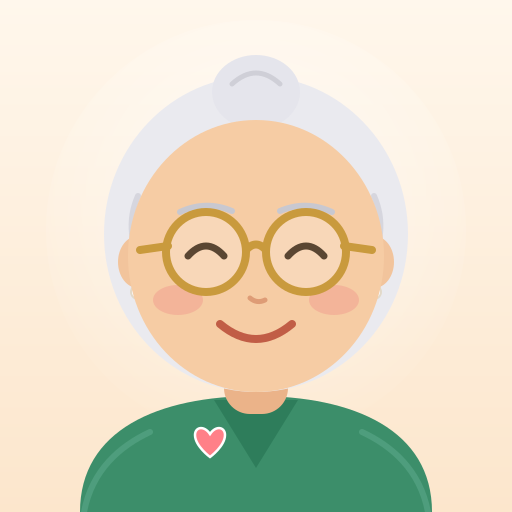
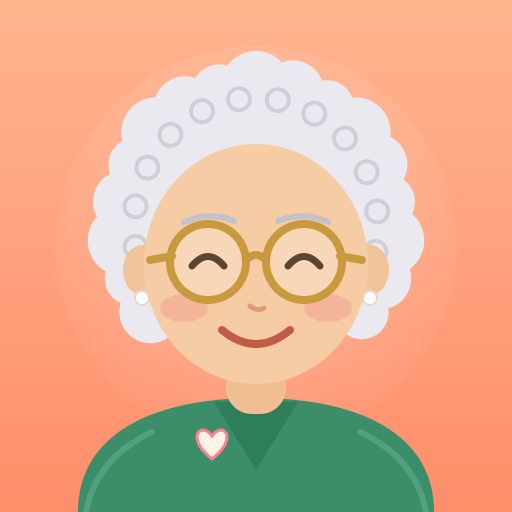
feat(care): 아이콘 코랄 배경 + 은발 뽀글이 펌으로 개선
- 배경 흰크림 → 따뜻한 코랄 그라데이션 (홈화면에서 잘 보이게)
- 매끈한 쪽머리 → 동글동글 펌 컬 (한국 할머니 느낌)
- scripts/build-care-icon.js: 컬 좌표 계산 + SVG/PNG 자동 생성
- salon/sw.js 캐시 bump (phone-gate 최신 반영)

diff --git a/scripts/build-care-icon.js b/scripts/build-care-icon.js
@@ -1,0 +1,121 @@
+// 안심케어 아이콘 빌드: 코랄 배경 + 은발 뽀글이 펌 할머니 → SVG + 192/512 PNG
+const sharp = require('sharp');
+const fs = require('fs');
+const path = require('path');
+
+const C = {
+  bgTop: '#FFB48E', bgBot: '#FF8E6B',          // 따뜻한 코랄(테일 배경에서 확 보임)
+  halo: '#FFFFFF',
+  hair: '#E9E9EF', hairSh: '#D3D3DC', curl: '#CFCFD9',
+  skin: '#F6CCA4', skinSh: '#F0BE92', ear: '#F2C49C',
+  cardi: '#3C8E6A', cardiV: '#2E7D5B', cardiEdge: '#5BA888',
+  gold: '#C99A3D', eye: '#5A4632', brow: '#C2C2CC',
+  blush: '#F0978B', mouth: '#C15D46',
+  pearl: '#FCFCFE', heart: '#FFF2E6', heartLine: '#FF8088',
+};
+
+const rad = d => d * Math.PI / 180;
+
+// ── 펌 컬: 머리 윗부분 테두리를 따라 동글동글한 원들 ──
+const hairCx = 256, hairCy = 226, hairRx = 134, hairRy = 140;
+let curls = '';
+let texture = '';
+// 바깥 테두리 컬 (-38° ~ 218°, 90°=정수리)
+for (let i = 0; i <= 16; i++) {
+  const a = -38 + (256 / 16) * i;       // -38 → 218
+  const x = hairCx + hairRx * Math.cos(rad(a));
+  const y = hairCy - hairRy * Math.sin(rad(a));
+  const r = 27 + (i % 3) * 4;
+  curls += `<circle cx="${x.toFixed(1)}" cy="${y.toFixed(1)}" r="${r}" fill="${C.hair}"/>`;
+}
+// 안쪽 한 겹 더 (볼륨)
+for (let i = 0; i <= 13; i++) {
+  const a = -20 + (220 / 13) * i;
+  const x = hairCx + (hairRx - 30) * Math.cos(rad(a));
+  const y = hairCy - (hairRy - 30) * Math.sin(rad(a));
+  curls += `<circle cx="${x.toFixed(1)}" cy="${y.toFixed(1)}" r="22" fill="${C.hair}"/>`;
+}
+// 컬 질감(살짝 어두운 작은 c자)
+for (let i = 0; i <= 14; i++) {
+  const a = -30 + (256 / 14) * i;
+  const x = hairCx + (hairRx - 12) * Math.cos(rad(a));
+  const y = hairCy - (hairRy - 12) * Math.sin(rad(a));
+  texture += `<circle cx="${x.toFixed(1)}" cy="${y.toFixed(1)}" r="11" fill="none" stroke="${C.curl}" stroke-width="4"/>`;
+}
+
+const svg = `<svg width="512" height="512" viewBox="0 0 512 512" xmlns="http://www.w3.org/2000/svg">
+  <defs>
+    <linearGradient id="bg" x1="0" y1="0" x2="0" y2="1">
+      <stop offset="0" stop-color="${C.bgTop}"/><stop offset="1" stop-color="${C.bgBot}"/>
+    </linearGradient>
+    <radialGradient id="halo" cx="0.5" cy="0.45" r="0.6">
+      <stop offset="0" stop-color="${C.halo}" stop-opacity="0.30"/>
+      <stop offset="1" stop-color="${C.halo}" stop-opacity="0"/>
+    </radialGradient>
+  </defs>
+
+  <rect width="512" height="512" fill="url(#bg)"/>
+  <circle cx="256" cy="246" r="200" fill="url(#halo)"/>
+
+  <!-- cardigan -->
+  <path d="M78 512 C78 432 156 398 256 398 C356 398 434 432 434 512 Z" fill="${C.cardi}"/>
+  <path d="M214 402 L256 470 L298 402 Z" fill="${C.cardiV}"/>
+  <path d="M86 512 C94 470 122 446 152 432" fill="none" stroke="${C.cardiEdge}" stroke-width="6" stroke-linecap="round" opacity="0.7"/>
+  <path d="M426 512 C418 470 390 446 360 432" fill="none" stroke="${C.cardiEdge}" stroke-width="6" stroke-linecap="round" opacity="0.7"/>
+
+  <!-- neck -->
+  <rect x="226" y="356" width="60" height="58" rx="26" fill="${C.skinSh}"/>
+
+  <!-- hair (perm) base + curls behind face -->
+  <ellipse cx="${hairCx}" cy="${hairCy}" rx="${hairRx}" ry="${hairRy}" fill="${C.hair}"/>
+  ${curls}
+  ${texture}
+
+  <!-- ears + pearl earrings -->
+  <ellipse cx="142" cy="270" rx="19" ry="25" fill="${C.ear}"/>
+  <ellipse cx="370" cy="270" rx="19" ry="25" fill="${C.ear}"/>
+  <circle cx="142" cy="298" r="7" fill="${C.pearl}" stroke="#E2D9C9" stroke-width="2"/>
+  <circle cx="370" cy="298" r="7" fill="${C.pearl}" stroke="#E2D9C9" stroke-width="2"/>
+
+  <!-- face -->
+  <ellipse cx="256" cy="264" rx="112" ry="120" fill="${C.skin}"/>
+
+  <!-- eyebrows (silver) -->
+  <path d="M184 222 q26 -11 50 -1" fill="none" stroke="${C.brow}" stroke-width="6" stroke-linecap="round"/>
+  <path d="M278 221 q26 -10 50 1" fill="none" stroke="${C.brow}" stroke-width="6" stroke-linecap="round"/>
+
+  <!-- blush -->
+  <ellipse cx="184" cy="308" rx="24" ry="14" fill="${C.blush}" opacity="0.45"/>
+  <ellipse cx="328" cy="308" rx="24" ry="14" fill="${C.blush}" opacity="0.45"/>
+
+  <!-- glasses -->
+  <circle cx="208" cy="262" r="38" fill="#FFFFFF" opacity="0.22"/>
+  <circle cx="304" cy="262" r="38" fill="#FFFFFF" opacity="0.22"/>
+  <circle cx="208" cy="262" r="38" fill="none" stroke="${C.gold}" stroke-width="8"/>
+  <circle cx="304" cy="262" r="38" fill="none" stroke="${C.gold}" stroke-width="8"/>
+  <path d="M246 260 q10 -10 20 0" fill="none" stroke="${C.gold}" stroke-width="8" stroke-linecap="round"/>
+  <path d="M172 256 L150 260" fill="none" stroke="${C.gold}" stroke-width="8" stroke-linecap="round"/>
+  <path d="M340 256 L362 260" fill="none" stroke="${C.gold}" stroke-width="8" stroke-linecap="round"/>
+
+  <!-- smiling eyes -->
+  <path d="M192 266 q16 -19 32 0" fill="none" stroke="${C.eye}" stroke-width="7" stroke-linecap="round"/>
+  <path d="M288 266 q16 -19 32 0" fill="none" stroke="${C.eye}" stroke-width="7" stroke-linecap="round"/>
+
+  <!-- nose -->
+  <path d="M250 306 q7 6 14 2" fill="none" stroke="#DE9C76" stroke-width="5" stroke-linecap="round"/>
+
+  <!-- smile -->
+  <path d="M222 330 q34 28 68 0" fill="none" stroke="${C.mouth}" stroke-width="8" stroke-linecap="round"/>
+
+  <!-- heart pin -->
+  <g transform="translate(212,452)">
+    <path d="M0 7 C0 7 -15 -4 -15 -15 C-15 -23 -6 -25 0 -16 C6 -25 15 -23 15 -15 C15 -4 0 7 0 7 Z" fill="${C.heart}" stroke="${C.heartLine}" stroke-width="3"/>
+  </g>
+</svg>`;
+
+const careDir = path.join(__dirname, '..', 'care');
+fs.writeFileSync(path.join(careDir, 'icon.svg'), svg);
+Promise.all([
+  sharp(Buffer.from(svg), { density: 300 }).resize(512, 512).png().toFile(path.join(careDir, 'icon-512.png')),
+  sharp(Buffer.from(svg), { density: 300 }).resize(192, 192).png().toFile(path.join(careDir, 'icon-192.png')),
+]).then(() => console.log('care icon built: svg + 192 + 512')).catch(e => { console.error(e); process.exit(1); });

diff --git a/salon/sw.js b/salon/sw.js
@@ -1,4 +1,4 @@
-const CACHE_NAME = 'salon-v1';
+const CACHE_NAME = 'salon-v2-phone-gate';
 const APP_PATH = '/salon/';
 
 self.addEventListener('install', e => {